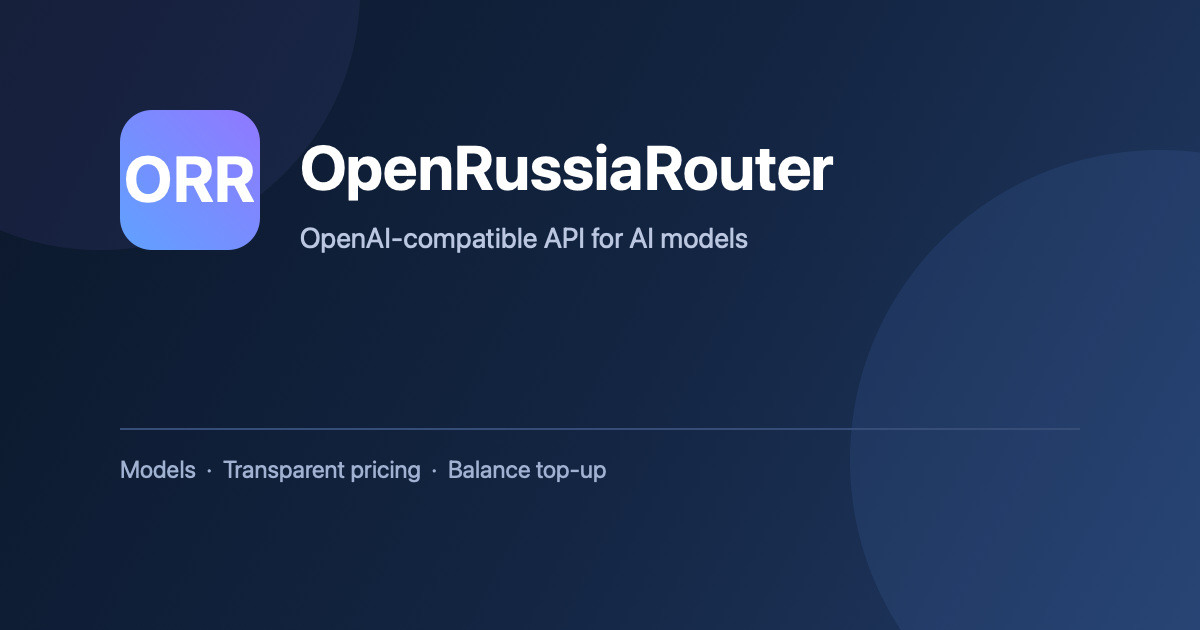
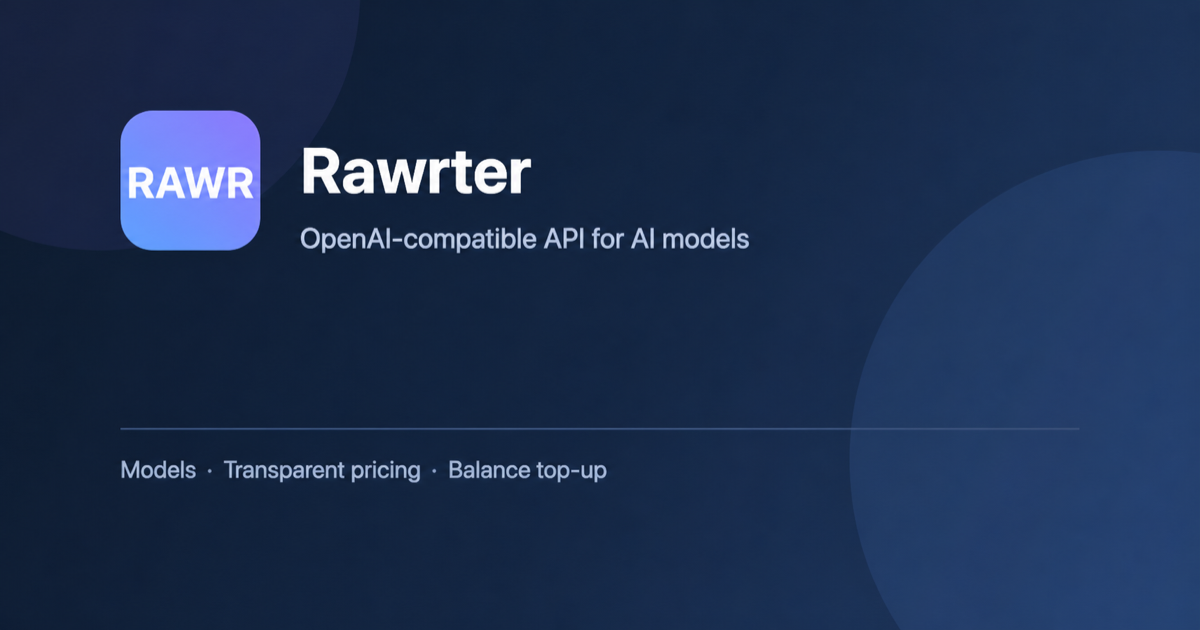
rnm-001 ogimage

diff --git a/src/OpenRussiaRouter.WebApp/Email/EmailTemplates.cs b/src/OpenRussiaRouter.WebApp/Email/EmailTemplates.cs
@@ -13,10 +13,10 @@ public static class EmailTemplates
     /// </summary>
     public static EmailMessage InviteEmail(string recipient, string inviteLink)
     {
-        const string subject = "You're invited to OpenRussiaRouter";
+        const string subject = "You're invited to Rawrter";
         var body =
             "Hello,\n\n" +
-            "You've been invited to OpenRussiaRouter. Follow the link below to set a " +
+            "You've been invited to Rawrter. Follow the link below to set a " +
             "password and activate your account:\n\n" +
             $"{inviteLink}\n\n" +
             "The link is single-use and expires in 7 days. If you didn't expect this " +
@@ -30,11 +30,11 @@ public static class EmailTemplates
     /// </summary>
     public static EmailMessage VerificationEmail(string recipient, string code)
     {
-        const string subject = "Confirm your OpenRussiaRouter email";
+        const string subject = "Confirm your Rawrter email";
         var body =
             "Hello,\n\n" +
             "Use the code below to confirm your email and finish creating your " +
-            "OpenRussiaRouter account:\n\n" +
+            "Rawrter account:\n\n" +
             $"    {code}\n\n" +
             "The code expires in 15 minutes. If you didn't request this, you can " +
             "ignore this message.\n";
@@ -47,10 +47,10 @@ public static class EmailTemplates
     /// </summary>
     public static EmailMessage PasswordResetEmail(string recipient, string code)
     {
-        const string subject = "Reset your OpenRussiaRouter password";
+        const string subject = "Reset your Rawrter password";
         var body =
             "Hello,\n\n" +
-            "We received a request to reset the password of your OpenRussiaRouter " +
+            "We received a request to reset the password of your Rawrter " +
             "account. Use the code below to set a new password:\n\n" +
             $"    {code}\n\n" +
             "The code expires in 15 minutes. If you didn't request a password reset, " +
@@ -70,7 +70,7 @@ public static class EmailTemplates
     {
         var fullSubject = $"[Support] {subject}";
         var body =
-            "New support request via the OpenRussiaRouter website.\n\n" +
+            "New support request via the Rawrter website.\n\n" +
             $"From:    {fromEmail}\n" +
             $"{meta}\n" +
             "----------------------------------------\n\n" +

diff --git a/src/OpenRussiaRouter.WebApp/Services/Legal/LegalDocumentService.cs b/src/OpenRussiaRouter.WebApp/Services/Legal/LegalDocumentService.cs
@@ -13,12 +13,12 @@ public class LegalDocumentService
     private static readonly IReadOnlyDictionary<string, string> DefaultTemplateValues =
         new Dictionary<string, string>(StringComparer.Ordinal)
         {
-            ["ORR_SERVICE_NAME"] = "OpenRussiaRouter",
+            ["ORR_SERVICE_NAME"] = "Rawrter",
             ["ORR_DOCUMENT_DATE"] = "05.08.2026",
             ["ORR_PUBLIC_DOMAIN"] = "https://openrussiarouter.com",
-            ["ORR_OPERATOR_NAME"] = "OpenRussiaRouter",
+            ["ORR_OPERATOR_NAME"] = "Rawrter",
             ["ORR_OPERATOR_DETAILS"] = "официальный сайт: https://openrussiarouter.com",
-            ["ORR_SUPPORT_CONTACT"] = "через официальный интерфейс OpenRussiaRouter"
+            ["ORR_SUPPORT_CONTACT"] = "через официальный интерфейс Rawrter"
         };
 
     private static readonly HashSet<string> AllowedDocuments = new(StringComparer.OrdinalIgnoreCase)

diff --git a/src/OpenRussiaRouter.WebApp/Services/Seo/StructuredData.cs b/src/OpenRussiaRouter.WebApp/Services/Seo/StructuredData.cs
@@ -34,7 +34,7 @@ public static class StructuredData
         {
             ["@type"] = "Organization",
             ["@id"] = baseUrl + "/#organization",
-            ["name"] = "OpenRussiaRouter",
+            ["name"] = "Rawrter",
             ["url"] = baseUrl + "/",
             ["logo"] = baseUrl + "/og-image.png",
         };
@@ -43,7 +43,7 @@ public static class StructuredData
         {
             ["@type"] = "WebSite",
             ["@id"] = baseUrl + "/#website",
-            ["name"] = "OpenRussiaRouter",
+            ["name"] = "Rawrter",
             ["url"] = baseUrl + "/",
             ["inLanguage"] = language,
             ["publisher"] = new Dictionary<string, object?> { ["@id"] = baseUrl + "/#organization" },

diff --git a/src/OpenRussiaRouter.WebApp/Services/Payments/YandexPay/YandexPayClient.cs b/src/OpenRussiaRouter.WebApp/Services/Payments/YandexPay/YandexPayClient.cs
@@ -62,7 +62,7 @@ public sealed class YandexPayClient
                     new YandexPayCartItem
                     {
                         ProductId = $"topup-{orderId}",
-                        Title = "Пополнение баланса OpenRussiaRouter",
+                        Title = "Пополнение баланса Rawrter",
                         Quantity = new YandexPayItemQuantity { Count = "1" },
                         Total = amount.ToString("F2", CultureInfo.InvariantCulture),
                         Description = "Пополнение баланса",

diff --git a/src/OpenRussiaRouter.WebApp/Services/ControlPlane/RouterNodeApiProvider.cs b/src/OpenRussiaRouter.WebApp/Services/ControlPlane/RouterNodeApiProvider.cs
@@ -45,7 +45,7 @@ public sealed class RouterNodeApiProvider(IHttpClientFactory httpClientFactory)
         {
             return new RouterNodeProbeResult(
                 requestLine,
-                "Control token is empty in OpenRussiaRouter DB - open this node in /admin/nodes and re-create it with the Control Token from 9Router's .env (ROUTER_CONTROL_TOKEN).");
+                "Control token is empty in the Rawrter DB - open this node in /admin/nodes and re-create it with the Control Token from 9Router's .env (ROUTER_CONTROL_TOKEN).");
         }
 
         try

diff --git a/src/OpenRussiaRouter.WebApp/Email/EmailSettings.cs b/src/OpenRussiaRouter.WebApp/Email/EmailSettings.cs
@@ -19,7 +19,7 @@ public class EmailSettings
     public int SmtpPort { get; set; } = 587;
     public bool UseSsl { get; set; } = true;
     public string SenderAddress { get; set; } = null!;
-    public string SenderName { get; set; } = "OpenRussiaRouter";
+    public string SenderName { get; set; } = "Rawrter";
 
     /// <summary>
     /// Pause after each sent message in the dispatch worker, to stay under the

diff --git a/.opencode/tasks.md b/.opencode/tasks.md
@@ -174,7 +174,7 @@
 - created: 2026-08-13T17:26:20Z
 - started:
 - completed:
-- desc: WebApp. Перед правкой прочитать `src/OpenRussiaRouter.WebApp/CLAUDE.md`. Заменить отображаемое название продукта `OpenRussiaRouter` на `Rawrter` во всех пользовательских текстах Razor Pages, layout, ресурсах ru/en, SEO-title/description, административном интерфейсе, email-шаблонах, `Email:SenderName`, платёжных назначениях, юридических шаблонах, alt/aria-подписях и пользовательских сообщениях. Проверить `wwwroot` на логотипы и изображения со старым текстом; при наличии обновить исходные assets без смены визуального стиля. Не менять namespace, assembly/project names, каталоги, `ORR_*`, `orr_*`, `sk-or-*`, `ORR/*`, URL API и почтовые адреса. Обновить затронутые тесты. Критерий: отрендеренные страницы и письма показывают `Rawrter`, технические исключения сохранены; `dotnet build OpenRussiaRouter.sln --no-restore -nr:false -m:1` и тесты `OpenRussiaRouter.WebApp.Tests` проходят.
+- desc: WebApp. Перед правкой прочитать `src/OpenRussiaRouter.WebApp/CLAUDE.md`. Заменить отображаемое название продукта `OpenRussiaRouter` на `Rawrter` во всех пользовательских текстах Razor Pages, layout, ресурсах ru/en, SEO-title/description, административном интерфейсе, email-шаблонах, `Email:SenderName`, платёжных назначениях, юридических шаблонах, alt/aria-подписях и пользовательских сообщениях. Проверить `wwwroot` на логотипы и изображения со старым текстом; при наличии обновить исходные assets без смены визуального стиля. Не менять namespace, assembly/project names, каталоги, `ORR_*`, `orr_*`, `sk-or-*`, `ORR/*`, URL API и почтовые адреса. Обновить затронутые тесты. Критерий: отрендеренные страницы и письма показывают `Rawrter`, технические исключения сохранены; `dotnet build OpenRussiaRouter.sln --no-restore -nr:false -m:1` и тесты `OpenRussiaRouter.WebApp.Tests` проходят. ПРИМЕЧАНИЕ (2026-08-13): `wwwroot/og-image.png` в этой задаче НЕ менять (logo-квадрат `rawr` → `Rawrter` и баннер) — ручная перегенерация ассета планируется отдельно, вне RNM-001; состав работ зафиксирован в todo-листе. `favicon.png` также остаётся.
 
 ## RNM-002 — Домен сайта
 - status: todo
